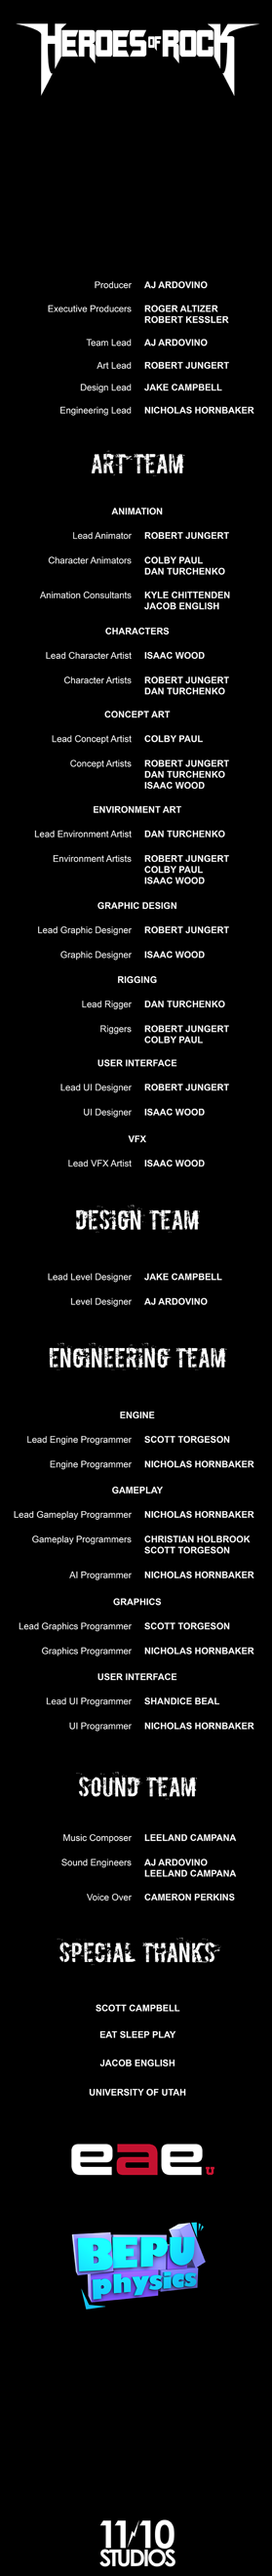
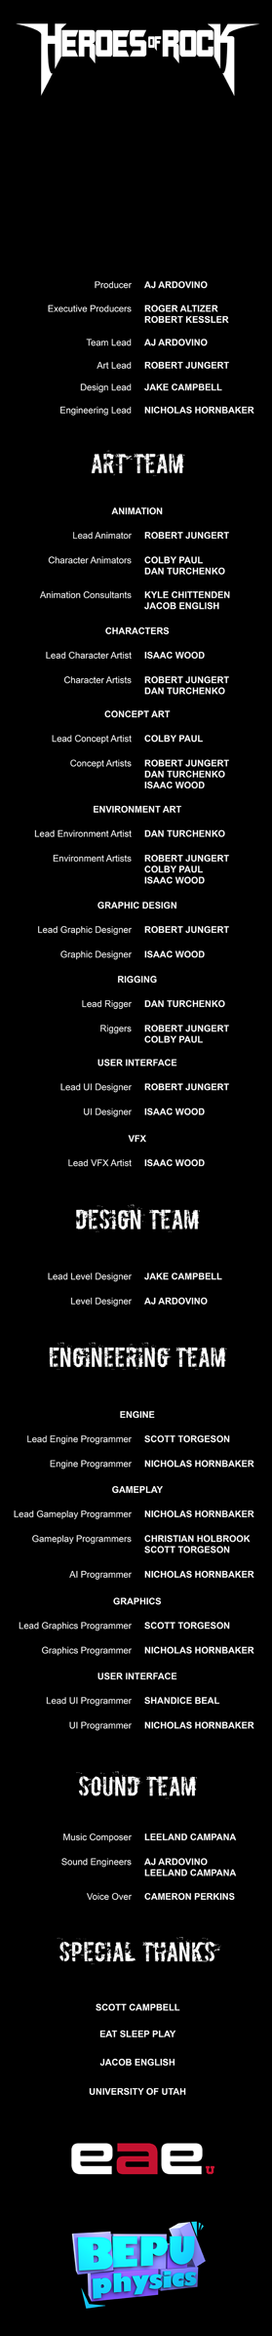
fixed level edit bugs and added credits

diff --git a/GameLib/Engine/MenuSystem/Menus/MenuComponents/LevelMenuEntry.cs b/GameLib/Engine/MenuSystem/Menus/MenuComponents/LevelMenuEntry.cs
@@ -13,30 +13,67 @@ namespace GameLib.Engine.MenuSystem.Menus {
         public string LevelName { get; private set; }
         public bool UseLoadingLevel { get; private set; }
 
-        private Texture2D blank;
-        private Texture2D lockGraphic;
-        private Texture2D skullGraphic;
-        private int height;
-        private int width;
+        private Texture2D blank, lockGraphic, skullGraphic, divider;
+        private int height, width;
+        int[] tscores;
         private float scale;
+        private String rating;
 
         public LevelMenuEntry (string levelName, string text, string graphic, bool useLoadingLevel)
             : base(text) {
                 LevelName = levelName;
                 LevelGraphic = Stage.Content.Load<Texture2D>("UI/LevelGraphics/"+graphic);
-                
+                divider = Stage.Content.Load<Texture2D>("UI/LevelGraphics/divider");
                 width = LevelGraphic.Width;
                 height = LevelGraphic.Height;
                 this.blank = Stage.Content.Load<Texture2D>("UI/Menu/blank");
                 this.lockGraphic = Stage.Content.Load<Texture2D>("UI/LevelGraphics/LevelLock");
-                this.skullGraphic = Stage.Content.Load<Texture2D>("UI/Misc/skull");
-                this.scale =  .30f;
+                this.scale =  1f;
+                            
             
                 //TODO These should be driven from user profile
+                PlayerScore();
                 IsLocked = true;
                 StarRating = 0;
-
+                tscores = TopScore();
                 UseLoadingLevel = useLoadingLevel;
+        }
+
+        private int[] TopScore () {
+            int[] topScores = new int[3];
+            
+            for (int i = 0; i < 3; i++) {
+                //get top three values
+            }
+
+            topScores = new int[] { 3333, 2222, 1111 }; //REMOVE
+
+            return topScores;
+
+        }
+
+        //TODO PLACE APPROPRIATE VALUES
+        private void PlayerScore () {
+            int playerScore = 20000;
+            skullGraphic = null;
+            rating = "";
+
+            if (playerScore <= 2000  && playerScore > 0) {
+                skullGraphic = Stage.Content.Load<Texture2D>("UI/LevelGraphics/skull1");
+                rating = "POSER STATUS";
+            } else if (playerScore <= 5000 && playerScore > 0) {
+                skullGraphic = Stage.Content.Load<Texture2D>("UI/LevelGraphics/skull2");
+                rating = "HEAD BANGER STATUS";
+            } else if (playerScore <= 10000 && playerScore > 0) {
+                skullGraphic = Stage.Content.Load<Texture2D>("UI/LevelGraphics/skull3");
+                rating = "METAL HEAD STATUS";
+            } else if (playerScore <= 15000 && playerScore > 0) {
+                skullGraphic = Stage.Content.Load<Texture2D>("UI/LevelGraphics/skull4");
+                rating = "HARDCORE STATUS";
+            } else if (playerScore >= 20000) {
+                skullGraphic = Stage.Content.Load<Texture2D>("UI/LevelGraphics/skull5");
+                rating = "ROCK GOD STATUS";
+            }
         }
 
         public override void Draw (GameMenu menu, bool isSelected, float dt) {
@@ -47,12 +84,12 @@ namespace GameLib.Engine.MenuSystem.Menus {
             // Draw text, centered on the middle of each line.
             MenuSystem sys = menu.MenuSystem;
             SpriteFont baseFont = sys.Font;
-            SpriteFont font = sys.Boycott;//TODO ADD THE NEW FONT
+            SpriteFont font = sys.Boycott;
 
-            scale = .25f;
+            scale = .5f;
 
-            int x = (int)Position.X - (LevelGraphic.Width / 2);
-            int y = (int)Position.Y - (LevelGraphic.Height / 2);
+            int x = (int)(Position.X - ((1.6*LevelGraphic.Width) / 2));
+            int y = (int)(Position.Y - ((1.75*LevelGraphic.Height) / 2));
             int scaledWidth = (int)(width * scale);
             int scaledHeight = (int)(height * scale);
 
@@ -76,32 +113,41 @@ namespace GameLib.Engine.MenuSystem.Menus {
                 Stage.renderer.SpriteBatch.Draw(blank, rec, Color.Black * 0.8f);
             } else {
 
+                Rectangle dividerRec = new Rectangle((int)startPosition.X, (int)startPosition.Y + rec.Height, rec.Width, 1);
+
                 //draw the skull ratings
-                float skullScale = 0.1f;
+                if (skullGraphic != null) {
+                float skullScale = 1f;
 
                 int w = (int)(skullGraphic.Width * skullScale);
                 int h = (int)(skullGraphic.Height * skullScale);
 
-                Rectangle skullRec = new Rectangle((int)startPosition.X, (int)startPosition.Y + rec.Height + h / 2, w, h);
-                Stage.renderer.SpriteBatch.Draw(skullGraphic, skullRec, Color.White);
+                
+                    Rectangle skullRec = new Rectangle((int)startPosition.X, (int)startPosition.Y + rec.Height + h / 4, w, h);
+                    Stage.renderer.SpriteBatch.Draw(skullGraphic, skullRec, Color.White);
 
-                //draw the skull rating string TODO get correct skull
-                String rating = "HARDCORE STATUS";
-                Stage.renderer.SpriteBatch.DrawString(font, rating, new Vector2(rec.Right - font.MeasureString(rating).X, rec.Bottom +
-                    font.MeasureString(rating).Y), color, 0, origin, 1, SpriteEffects.None, 0);
 
-                //draw divider TODO
+                    //draw the skull rating string
+                    Vector2 ratingPos = new Vector2(rec.Right - font.MeasureString(rating).X, rec.Bottom + skullRec.Height / 2);
+                    Stage.renderer.SpriteBatch.DrawString(font, rating, ratingPos, color, 0, origin, 1, SpriteEffects.None, 0);
 
-                //draw Top scores TODO set below divider
+                    //draw divider
+                    int dw = rec.Width;
+                    int dh = divider.Height;
+                    dividerRec = new Rectangle((int)startPosition.X, (int)ratingPos.Y + (25 * dh), dw, dh);
+                    Stage.renderer.SpriteBatch.Draw(divider, dividerRec, Color.White);
+                }
+                
+                //draw Top scores
                 String title = "TOP SCORES";
-                Stage.renderer.SpriteBatch.DrawString(font, title, new Vector2(rec.Right - font.MeasureString(title).X, rec.Bottom +
-                    +font.MeasureString(rating).Y + font.MeasureString(title).Y), color, 0, origin, 1, SpriteEffects.None, 0);
+                Vector2 titlePos = new Vector2(dividerRec.Right - font.MeasureString(title).X, dividerRec.Bottom + 
+                    font.MeasureString(title).Y);
+                Stage.renderer.SpriteBatch.DrawString(font, title,  titlePos, color, 0, origin, 1, SpriteEffects.None, 0);
 
-                int[] tscores = { 3333, 2222, 1111 };//TODO get this from the level
                 for (int i = 0; i < 3; i++) {
-                    String score = (i + 1) + " - " + tscores[i]; //TODO use shit parsing
-                    Stage.renderer.SpriteBatch.DrawString(baseFont, score, new Vector2(rec.Right - baseFont.MeasureString(score).X, rec.Bottom +
-                     +baseFont.MeasureString(rating).Y + baseFont.MeasureString(title).Y + (baseFont.MeasureString(score).Y * (i + 1)) / 2), color, 0, origin, 1, SpriteEffects.None, 0);
+                    String score = (i + 1) + " - " + tscores[i];
+                    Stage.renderer.SpriteBatch.DrawString(baseFont, score, new Vector2(rec.Right - baseFont.MeasureString(score).X, (int)titlePos.Y
+                        + (baseFont.MeasureString(score).Y * (i + 1)) / 2), color, 0, origin, 1, SpriteEffects.None, 0);
                 }
             }
         }

diff --git a/GameLib/Engine/MenuSystem/Menus/CreditsMenu.cs b/GameLib/Engine/MenuSystem/Menus/CreditsMenu.cs
@@ -7,15 +7,23 @@ using Microsoft.Xna.Framework.Graphics;
 
 namespace GameLib.Engine.MenuSystem.Menus {
     public class CreditsMenu : GameMenu {
-        Texture2D credits;
+        Texture2D credits, teamLogo, hor, back;
         Rectangle rec;
         float alpha;
+        int scroll;
+        Boolean endCredits, logoShowing;
 
         public CreditsMenu ()
             : base("") {
             alpha = 0f;
             credits = Stage.Content.Load<Texture2D>("UI/Menu/creds");
-            rec = new Rectangle(Stage.renderer.GraphicsDevice.Viewport.Bounds.Center.X - credits.Width/2, Stage.renderer.GraphicsDevice.Viewport.Bounds.Center.Y-credits.Height, credits.Bounds.Width, credits.Bounds.Height);
+            teamLogo = Stage.Content.Load<Texture2D>("UI/Menu/11outOf10_Logo_White");
+            hor = Stage.Content.Load<Texture2D>("UI/Menu/logo");
+            back = Stage.Content.Load<Texture2D>("UI/Menu/back");
+            rec = new Rectangle(Stage.renderer.GraphicsDevice.Viewport.Bounds.Center.X - credits.Width/2, Stage.renderer.GraphicsDevice.Viewport.Bounds.Bottom - credits.Height/12, credits.Bounds.Width, credits.Bounds.Height);
+            scroll = rec.Y;
+            endCredits = logoShowing = false;
+            
         }
         
 
@@ -26,15 +34,26 @@ namespace GameLib.Engine.MenuSystem.Menus {
             this.MarkedForRemove = true;
             MenuSystem.AddScreen(new MainMenu());
         }
+
         public override void Update (float dt, bool otherScreenHasFocus, bool coveredByOtherScreen) {
             base.Update(dt, otherScreenHasFocus, coveredByOtherScreen);
-            alpha += dt;
+
+            if (TransitionAlpha >= 1 && alpha <= 1f)
+                alpha += dt/2;
+            else if (scroll >= (float)(-1 * credits.Height))
+                scroll -= (int)(100 * dt);
+            else if(!logoShowing){
+                endCredits = true;
+                alpha = 0;
+                logoShowing = true;
+            }
+               
         }
 
         public override void HandleInput (MenuInput input) {
             base.HandleInput(input);
 
-           if (input.IsMenuCancel()) {
+            if (input.IsMenuCancel()) {
                 OnCancel();
             }
                 
@@ -43,7 +62,21 @@ namespace GameLib.Engine.MenuSystem.Menus {
         /// Draws the menu.
         /// </summary>
         public override void Draw (float dt) {
-            Stage.renderer.SpriteBatch.Draw(credits, rec, Color.White * alpha);
+            Rectangle fullscreen = new Rectangle(0, 0, Renderer.ScreenWidth, Renderer.ScreenHeight);
+            int width = (int)(back.Width * 0.8f);
+            int height = (int)(back.Height * 0.8f);
+            Rectangle backRec = new Rectangle(fullscreen.Right - (2 * width), fullscreen.Bottom - (2 * height), width, height);
+            Stage.renderer.SpriteBatch.Draw(MenuSystem.BlankTexture, fullscreen, Color.Black * TransitionAlpha);
+
+            if (!endCredits)
+                Stage.renderer.SpriteBatch.Draw(credits, new Rectangle(rec.X, scroll, rec.Width, rec.Height), Color.White * alpha);
+            else {
+                width = (int)(teamLogo.Width * 0.85);
+                height = (int)(teamLogo.Height * 0.85);
+                Rectangle trec = new Rectangle(fullscreen.Center.X - width/2, fullscreen.Center.Y - height/2, width, height);
+                Stage.renderer.SpriteBatch.Draw(teamLogo, trec, Color.White);
+            }
+            Stage.renderer.SpriteBatch.Draw(back, backRec, Color.White * TransitionAlpha);
         }
 
     }

diff --git a/GameLib/Engine/MenuSystem/Screens/LoadingScreen.cs b/GameLib/Engine/MenuSystem/Screens/LoadingScreen.cs
@@ -20,7 +20,7 @@ namespace GameLib.Engine.MenuSystem.Menus {
         private LoadingScreen (MenuSystem menuSystem, bool loadingIsSlow, string levelName) {
             this.loadingIsSlow = loadingIsSlow;
             this.levelName = levelName;
-            this.background = Stage.Content.Load<Texture2D>("UI/Menu/splashBackground");
+            this.background = Stage.Content.Load<Texture2D>("UI/Menu/background");
             TransitionOnTime = TimeSpan.FromSeconds(0.5);
         }
 

diff --git a/GameLib/Engine/MenuSystem/Menus/LevelMenu.cs b/GameLib/Engine/MenuSystem/Menus/LevelMenu.cs
@@ -137,6 +137,7 @@ namespace GameLib.Engine.MenuSystem.Menus {
         /// When the user cancels the main menu, ask if they want to exit the sample.
         /// </summary>
         protected override void OnCancel () {
+            this.MarkedForRemove = true;
             MenuSystem.AddScreen(new MainMenu());
         }
 

diff --git a/GameLib/Engine/MenuSystem/Menus/MainMenu.cs b/GameLib/Engine/MenuSystem/Menus/MainMenu.cs
@@ -55,7 +55,6 @@ namespace GameLib.Engine.MenuSystem.Menus {
         }
 
         void CredsSelected (object sender, EventArgs e) {
-            MenuSystem.AddScreen(new ColoredBackgroundScreen(Color.Black));
             MenuSystem.AddScreen(new CreditsMenu());
         }
 
